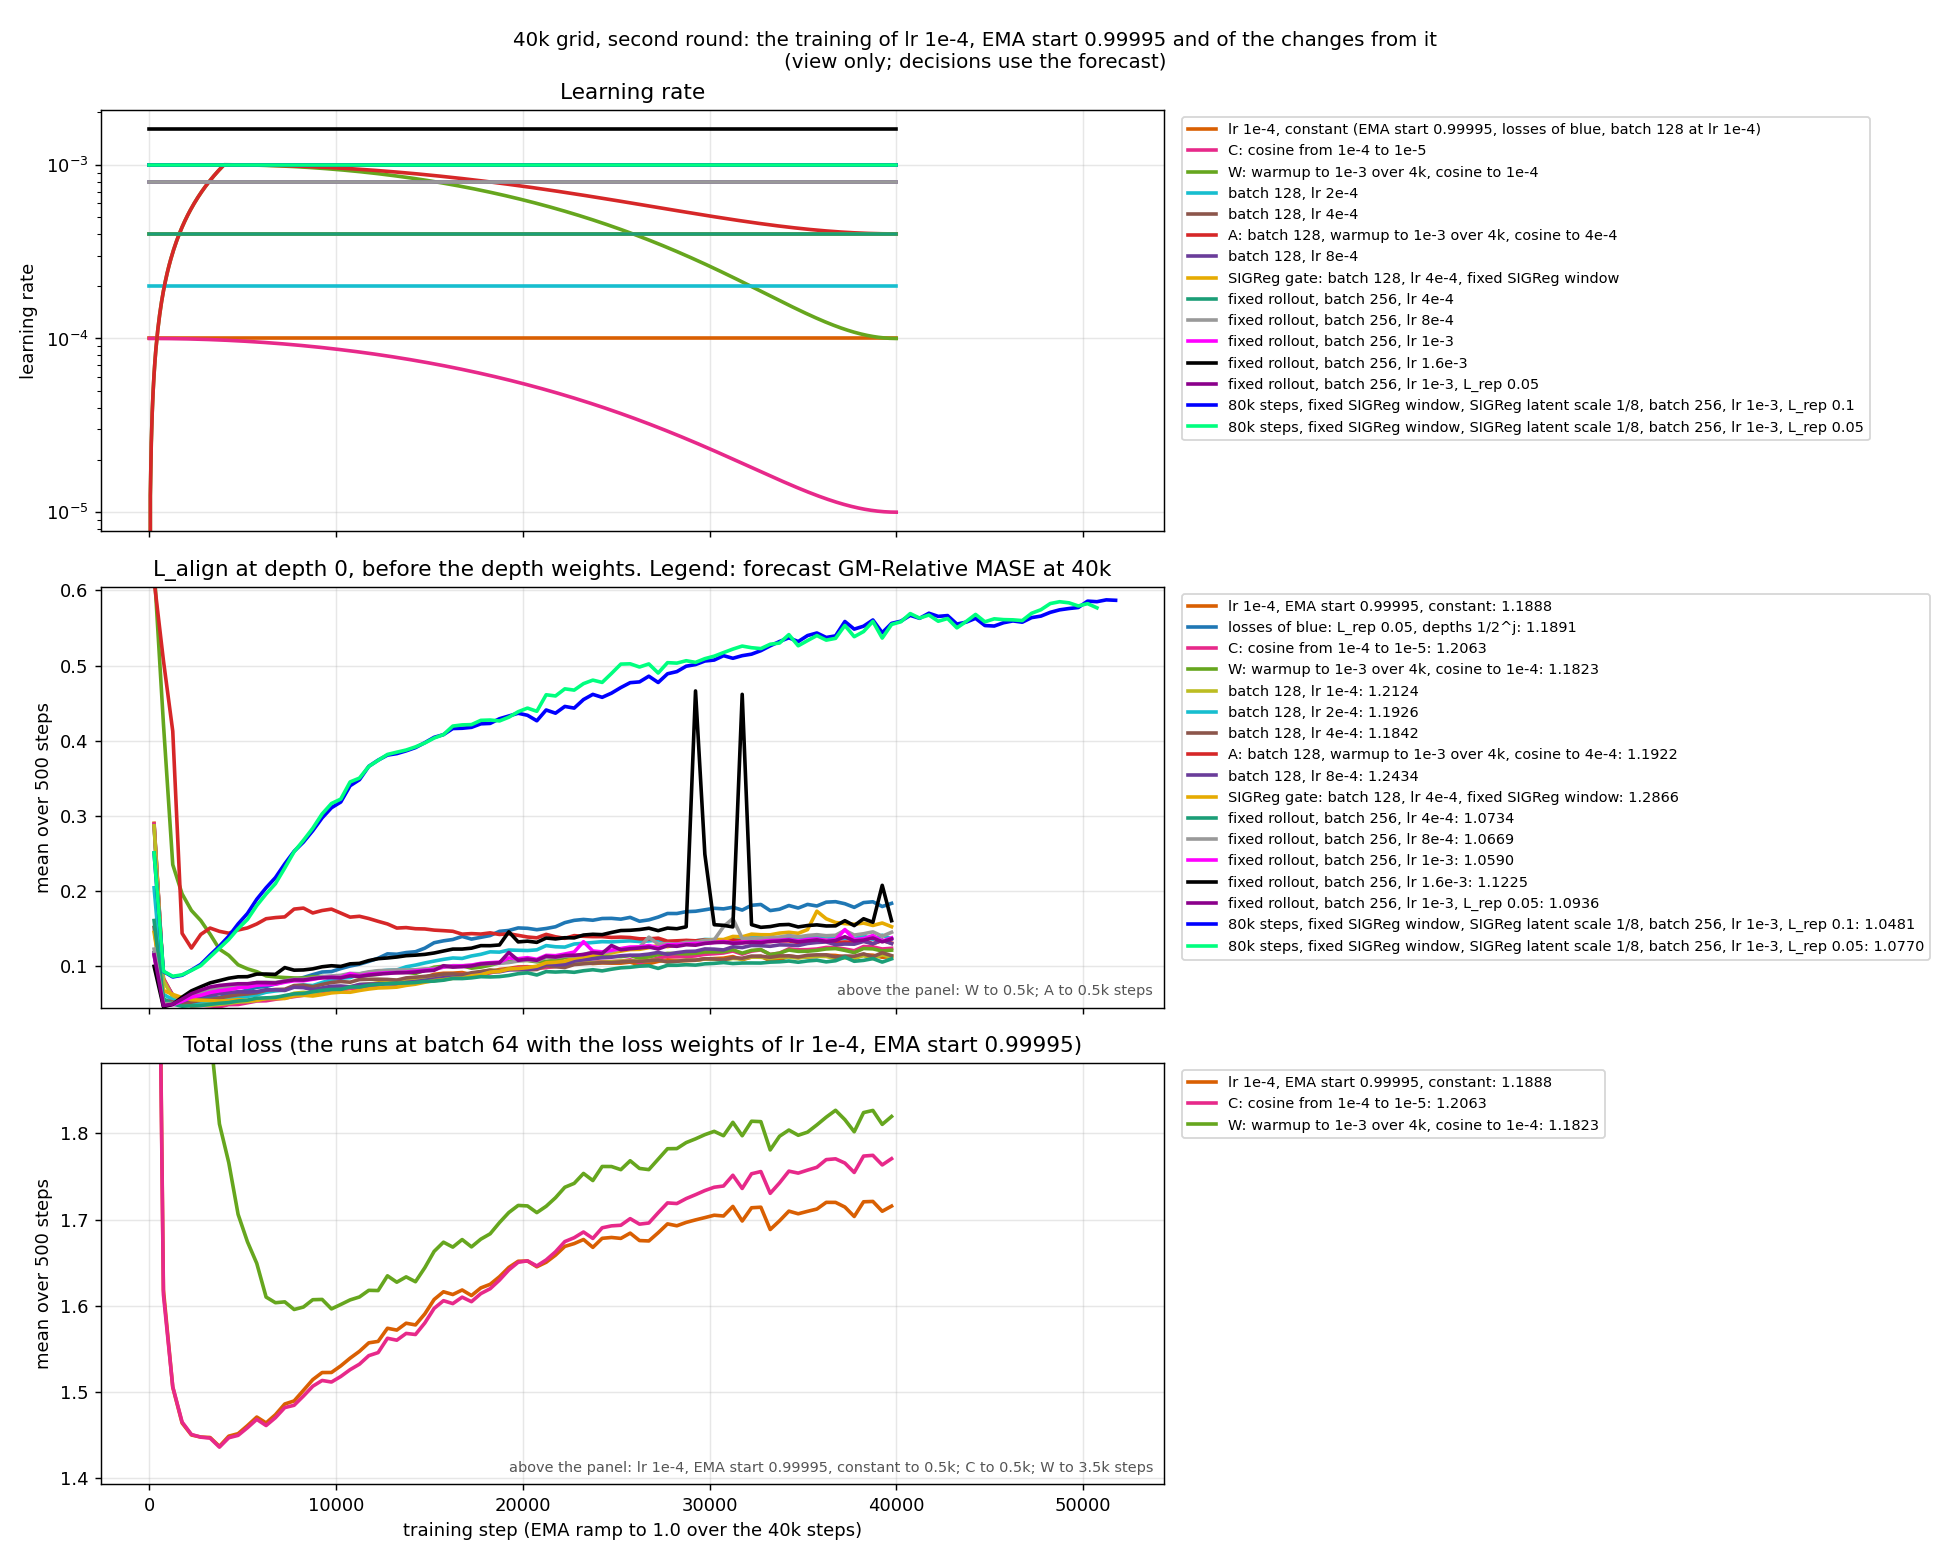
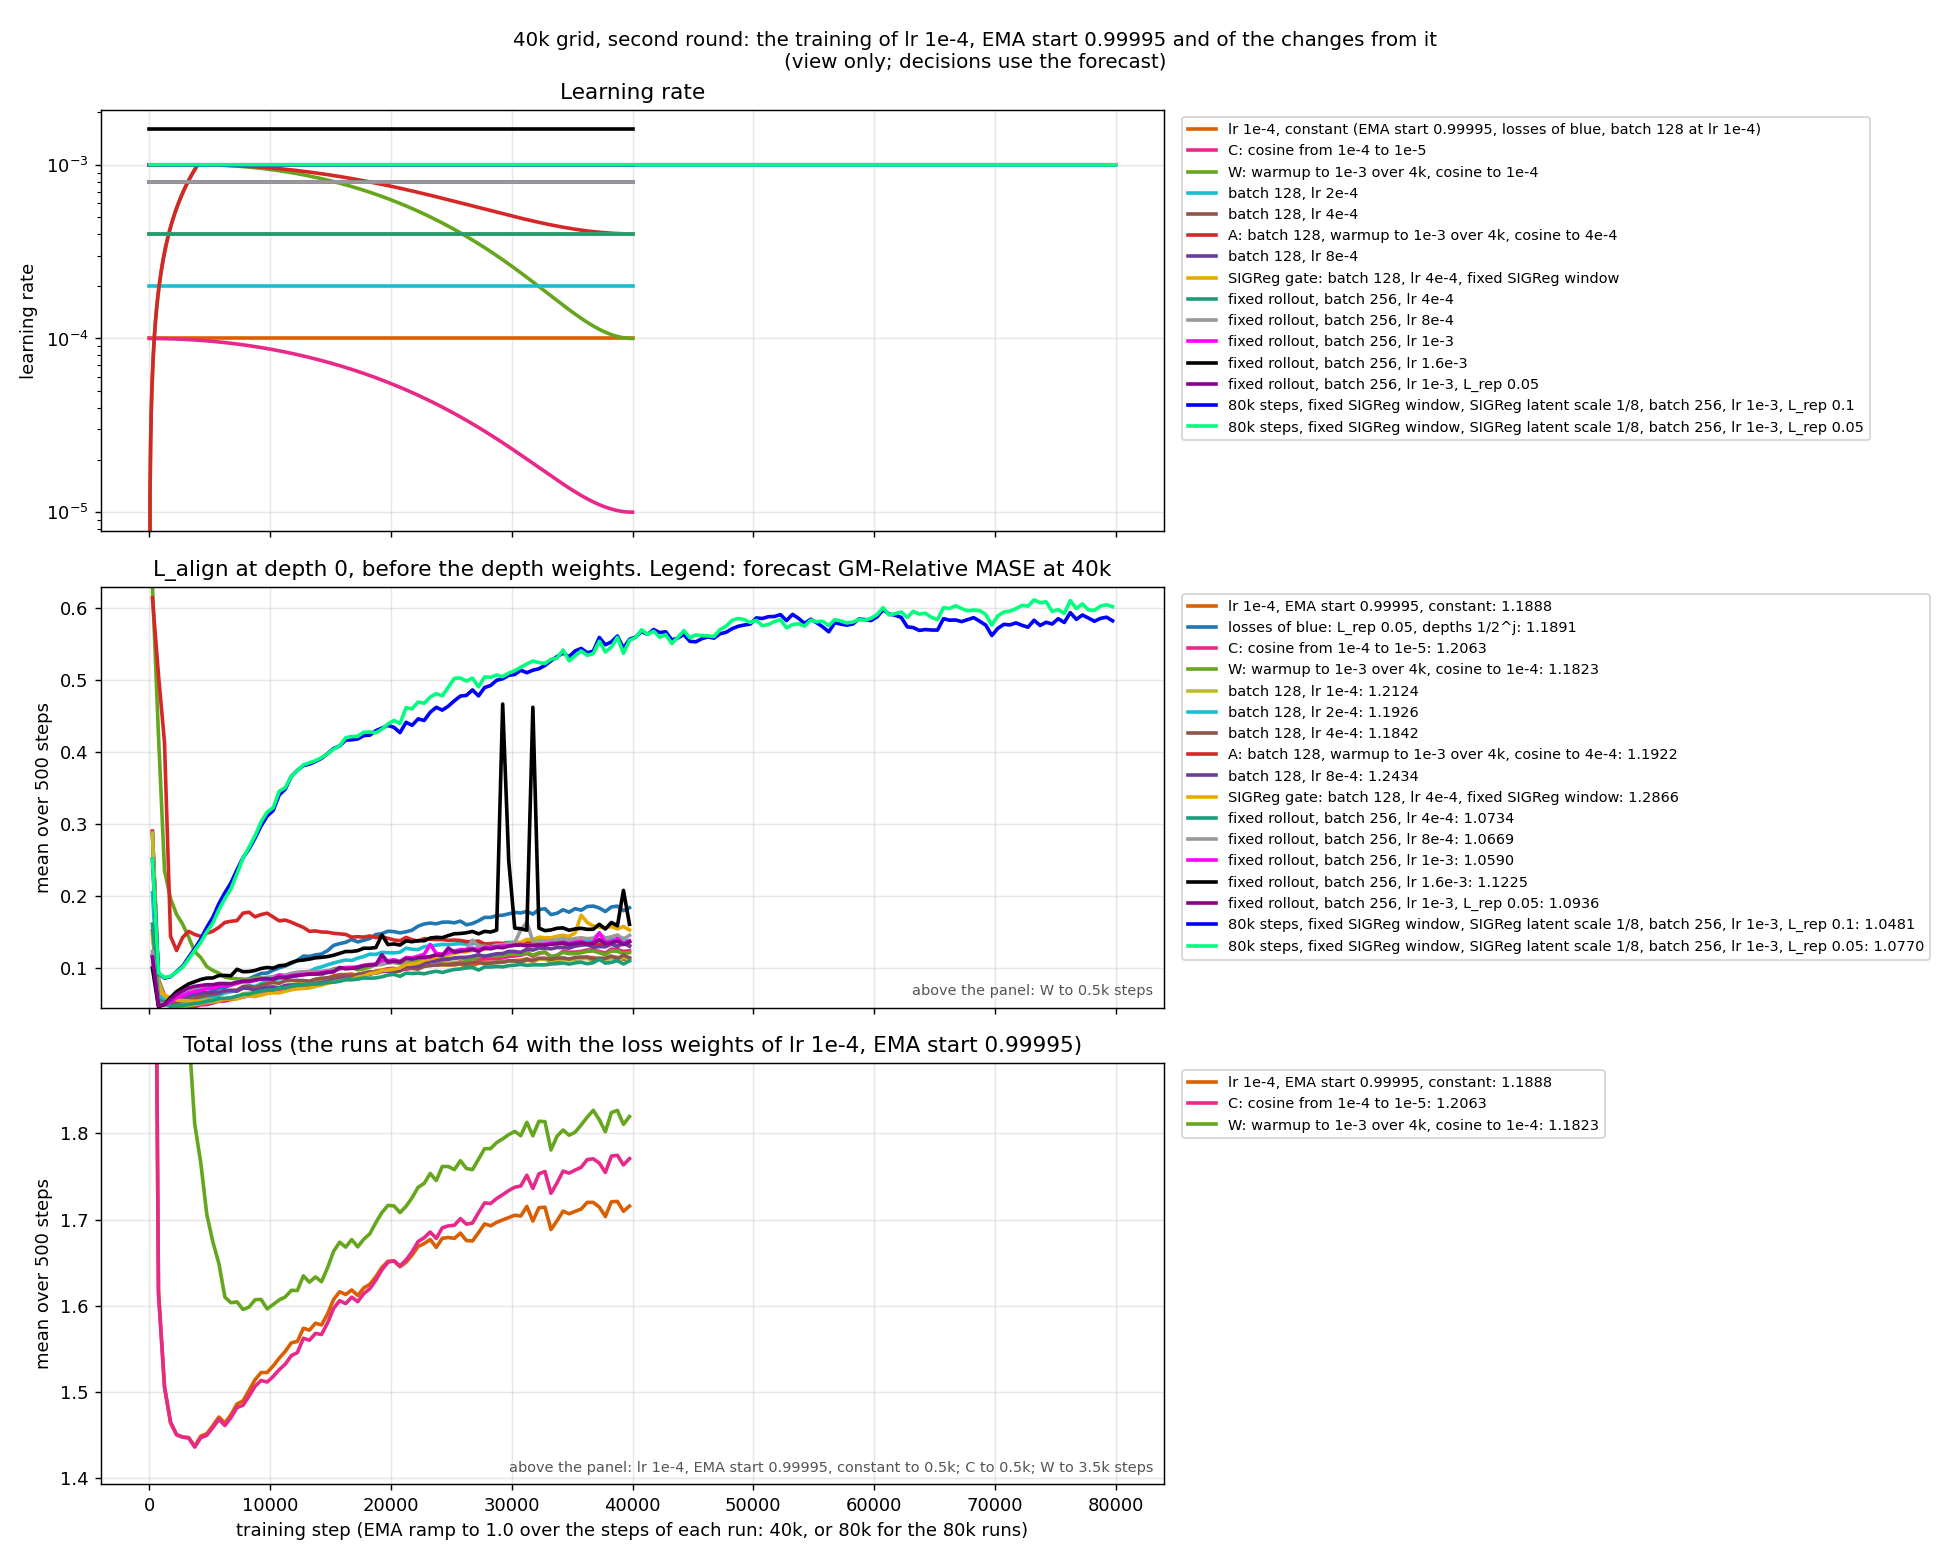
The 80k score 1.0281 of the SIGReg-scale L_rep 0.1 run (40k: 1.0481); an 80k column in the grid heatmap
The 80k run with L_rep 0.1 and the SIGReg latent scale gets 1.0281 at 80k
(short 0.9584, medium 1.1303, long 1.1238). The heatmap of the second round
gets a third column for the 80k score of the 80k runs, with its own red
frame; the GM MASE figure has the point at 320k. In the dynamics figure, the
lr lines of the 80k runs go to 80k.

diff --git a/reports/2026-10-10_frequency_family_head/scripts/plot_grid40k.py b/reports/2026-10-10_frequency_family_head/scripts/plot_grid40k.py
@@ -20,10 +20,11 @@ Each cell is the forecast GM-Relative MASE of head B4 at 40k (30k head steps,
 the lowest score of a set of rows scored the same way: the rows of the raw
 rollout feedback (bugged scores) and the batch-256 rows (fixed rollout). The
 right column of the second round holds the rescores with the fixed rollout of
-runs scored with the raw rollout (the user, 11-05: the best batch-128 run).
+runs scored with the raw rollout (the user, 11-05: the best batch-128 run). Its
+third column holds the 80k score of the 80k runs, with its own red frame.
 
 The heads of the runs trained on cf-recon (vast 56873094) or on elisa. SCORES
-holds their score files score_<run>_bb40k_h30k_control.txt (elisa) and a copy
+holds their score files score_<run>_bb<k>k_h30k_control.txt (elisa) and a copy
 of the results folder of the box. results/grid40k_rescores.tsv holds the
 rescores. Writes results/grid40k_scores.tsv and plots/grid40k_heatmap.png.
 
@@ -90,9 +91,9 @@ ROUND2_COLOURS = {BEST: "#d95f02", "g40b_lr1em4_tau99995_rep005h": "#1f77b4",
                   "g80b_lr1em3_tau99995_bs256_rep005_sigfix_ss_rollfix": "#00ff7f"}
 
 
-def run_score(run):
-    """The forecast score of a run, or None. A run with two score files stops the script."""
-    paths = [d / f"score_{run}_bb40k_h30k_control.txt" for d in SCORES]
+def run_score(run, k=40):
+    """The forecast score of a run at its ``k``k save, or None. A run with two score files stops the script."""
+    paths = [d / f"score_{run}_bb{k}k_h30k_control.txt" for d in SCORES]
     found = [p for p in paths if p.exists()]
     if len(found) > 1:
         raise SystemExit(f"{run}: a score in two places: {found}")
@@ -119,11 +120,11 @@ def rescores():
 
 
 def round2_scores():
-    """Array [run of ROUND2 and planned run, 2] of the scores and of the rescores with the
-    fixed rollout, NaN for no score."""
+    """Array [run of ROUND2 and planned run, 3] of the scores, of the rescores with the
+    fixed rollout and of the 80k scores of the 80k runs, NaN for no score."""
     fixed = rescores()
-    rows = [[as_value(run_score(run)), fixed.get(run, np.nan)] for run in ROUND2]
-    return np.array(rows + [[np.nan, np.nan]] * len(PLANNED))
+    rows = [[as_value(run_score(run)), fixed.get(run, np.nan), as_value(run_score(run, 80))] for run in ROUND2]
+    return np.array(rows + [[np.nan, np.nan, np.nan]] * len(PLANNED))
 
 
 def score_text(value):
@@ -132,14 +133,14 @@ def score_text(value):
 
 def write_table(grid, round2):
     with open(TABLE, "w") as f:
-        f.write("run\tlr\tema_tau\tchange\tforecast_gm_mase\n")
+        f.write("run\tlr\tema_tau\tchange\tforecast_gm_mase\tforecast_gm_mase_80k\n")
         for i, (lr, (_, lr_part)) in enumerate(LRS.items()):
             for j, (tau, (_, tau_part)) in enumerate(TAUS.items()):
-                f.write(f"g40_{lr_part}_{tau_part}\t{lr}\t{tau}\t\t{score_text(grid[i, j])}\n")
+                f.write(f"g40_{lr_part}_{tau_part}\t{lr}\t{tau}\t\t{score_text(grid[i, j])}\t\n")
         for k, (run, (label, lr)) in enumerate(ROUND2.items()):
             if run != BEST:
                 change = label.replace("\n", " ")
-                f.write(f"{run}\t{lr}\t0.99995\t{change}\t{score_text(round2[k, 0])}\n")
+                f.write(f"{run}\t{lr}\t0.99995\t{change}\t{score_text(round2[k, 0])}\t{score_text(round2[k, 2])}\n")
 
 
 def cell_text(ax, i, j, score, low, high, empty="no score yet"):
@@ -196,13 +197,15 @@ def draw_grid(ax, grid, low, high):
 
 
 def draw_round2(ax, round2, low, high):
+    long_runs = [k for k, run in enumerate(ROUND2) if run.startswith("g80b_")]
     empty = {(k, 1): "" for k in range(round2.shape[0])}
+    empty.update({(k, 2): "" for k in range(round2.shape[0]) if k not in long_runs})
     empty.update({(len(ROUND2) + k, 0): when for k, (_, when) in enumerate(PLANNED)})
     fixed = [(k, 0) for k, run in enumerate(ROUND2) if run.endswith("_rollfix")]
     bugged = [(k, 0) for k, run in enumerate(ROUND2) if not run.endswith("_rollfix")]
-    draw_cells(ax, round2, low, high, empty, groups=[bugged, fixed])
-    ax.set_xticks([0, 1], ["lr 1e-4, EMA start 0.99995, batch 64,\nwith the change of the row",
-                           "the same run,\nrescored with\nthe fixed rollout"])
+    draw_cells(ax, round2, low, high, empty, groups=[bugged, fixed, [(k, 2) for k in long_runs]])
+    ax.set_xticks([0, 1, 2], ["lr 1e-4, EMA start 0.99995, batch 64,\nwith the change of the row",
+                              "the same run,\nrescored with\nthe fixed rollout", "the same run\nat 80k steps"])
     labels = [label for label, _ in ROUND2.values()] + [label for label, _ in PLANNED]
     ax.set_yticks(range(len(labels)), labels, fontsize=9)
     scored = int(np.sum(~np.isnan(round2[1:len(ROUND2), 0])))
@@ -214,7 +217,7 @@ def main():
     grid, round2 = grid_scores(), round2_scores()
     write_table(grid, round2)
     low, high = color_scale(grid, round2)
-    fig, (left, right) = plt.subplots(1, 2, figsize=(19, 13), gridspec_kw={"width_ratios": [2, 2.4], "wspace": 0.75})
+    fig, (left, right) = plt.subplots(1, 2, figsize=(21, 13), gridspec_kw={"width_ratios": [2, 3.2], "wspace": 0.75})
     image = draw_grid(left, grid, low, high)
     draw_round2(right, round2, low, high)
     fig.colorbar(image, ax=[left, right], label="forecast GM-Relative MASE (lower is better)")

diff --git a/reports/2026-10-10_frequency_family_head/scripts/plot_grid40k_round2.py b/reports/2026-10-10_frequency_family_head/scripts/plot_grid40k_round2.py
@@ -66,9 +66,9 @@ RUNS = {
     "g40b_lr1em3_tau99995_bs256_rep005_rollfix": ("fixed rollout, batch 256, lr 1e-3, L_rep 0.05",
                                                   (1e-3, 1e-3, STEPS, 0), False),
     "g80b_lr1em3_tau99995_bs256_rep01_sigfix_ss_rollfix": ("80k steps, fixed SIGReg window, SIGReg latent scale 1/8, batch 256, lr 1e-3, L_rep 0.1",
-                                                        (1e-3, 1e-3, STEPS, 0), False),
+                                                        (1e-3, 1e-3, 2 * STEPS, 0), False),
     "g80b_lr1em3_tau99995_bs256_rep005_sigfix_ss_rollfix": ("80k steps, fixed SIGReg window, SIGReg latent scale 1/8, batch 256, lr 1e-3, L_rep 0.05",
-                                                         (1e-3, 1e-3, STEPS, 0), False),
+                                                         (1e-3, 1e-3, 2 * STEPS, 0), False),
 }
 
 
@@ -95,8 +95,8 @@ def legend_label(run):
 
 
 def draw_lr(ax):
-    steps = np.arange(0, STEPS + 1, 50)
     for run, (name, schedule, _) in RUNS.items():
+        steps = np.arange(0, schedule[2] + 1, 50)  # to the last step of the run
         if schedule != CONSTANT or run == "g40_lr1em4_tau99995":
             label = "lr 1e-4, constant (EMA start 0.99995, losses of blue, batch 128 at lr 1e-4)" \
                 if schedule == CONSTANT else name
@@ -136,7 +136,7 @@ def main():
               "Total loss (the runs at batch 64 with the loss weights of lr 1e-4, EMA start 0.99995)")
     for ax in axes:
         ax.grid(alpha=0.3)
-    axes[2].set_xlabel("training step (EMA ramp to 1.0 over the 40k steps)")
+    axes[2].set_xlabel("training step (EMA ramp to 1.0 over the steps of each run: 40k, or 80k for the 80k runs)")
     fig.suptitle("40k grid, second round: the training of lr 1e-4, EMA start 0.99995 and of the changes from it\n"
                  "(view only; decisions use the forecast)", fontsize=11)
     fig.tight_layout()

diff --git a/reports/2026-10-10_frequency_family_head/frequency_family_head.md b/reports/2026-10-10_frequency_family_head/frequency_family_head.md
@@ -25,7 +25,7 @@ At 360k, blue gets 1.0848 (grey 1.0279, yellow 1.0330, violet 1.0606, all with t
 At 180k, with the raw rollout, grey gets 1.0421 and yellow 1.0537.
 A light asterisk marks each score with the normalised rollout.
 The forecast panel also shows six runs of the 40k grid at width 64, at the data they saw: S256, S05, SPH and O256 at batch 256, O128 at batch 128 and W64 at batch 64.
-With the SIGReg latent scale, S256 gets 1.0481 at 40k steps of batch 256 (160k on the axis).
+With the SIGReg latent scale, S256 gets 1.0481 at 40k steps of batch 256 (160k on the axis) and 1.0281 at 80k (320k on the axis).
 SPH is S256 with e, h and f on one sphere of radius 8 (`--latent-sphere`).
 At 20k, SPH gets 1.0691 and S256 gets 1.0656.
 W64 has a bugged score only.
@@ -103,10 +103,11 @@ The 80k runs now train with `--sigreg-latent-scale inv_sqrt_d`: SIGReg reads eac
 In a test of 300 steps, SIGReg on the encoder output falls from 9.4 to 0.09 with this factor.
 At 20k, the 80k run with L_rep 0.1 gets 1.0656 (short 0.9844, medium 1.1831, long 1.1811).
 At 40k, it gets 1.0481 (short 0.9741, medium 1.1572, long 1.1500), the lowest score of the grid.
+At 80k, it gets 1.0281 (short 0.9584, medium 1.1303, long 1.1238), in the right column of the heatmap.
 With L_rep 0.05, the other 80k run gets 1.0770 at 40k (short 0.9769, medium 1.2063, long 1.2416).
 A third 80k run adds `--latent-sphere` to the L_rep 0.1 run (contrastive-forecasting #453): e, h and f go on one sphere of radius 8 after SIGReg.
 At 20k, it gets 1.0691 (short 0.9897, medium 1.1871, long 1.1781).
-With the fixed rollout, batch 128 at 4e-4 gets 1.2440, and 1.1842 with the raw rollout (the right column).
+With the fixed rollout, batch 128 at 4e-4 gets 1.2440, and 1.1842 with the raw rollout (the middle column).
 This run trained with the raw rollout feedback.
 At 40k, the fixed rollout also gives higher scores for violet (1.1948 against 1.1430) and blue (1.2337 against 1.1944), the two muP runs with the flags of the grid.
 The other scores of the grid use the raw rollout feedback, so compare a batch-256 score only with the other batch-256 scores.
